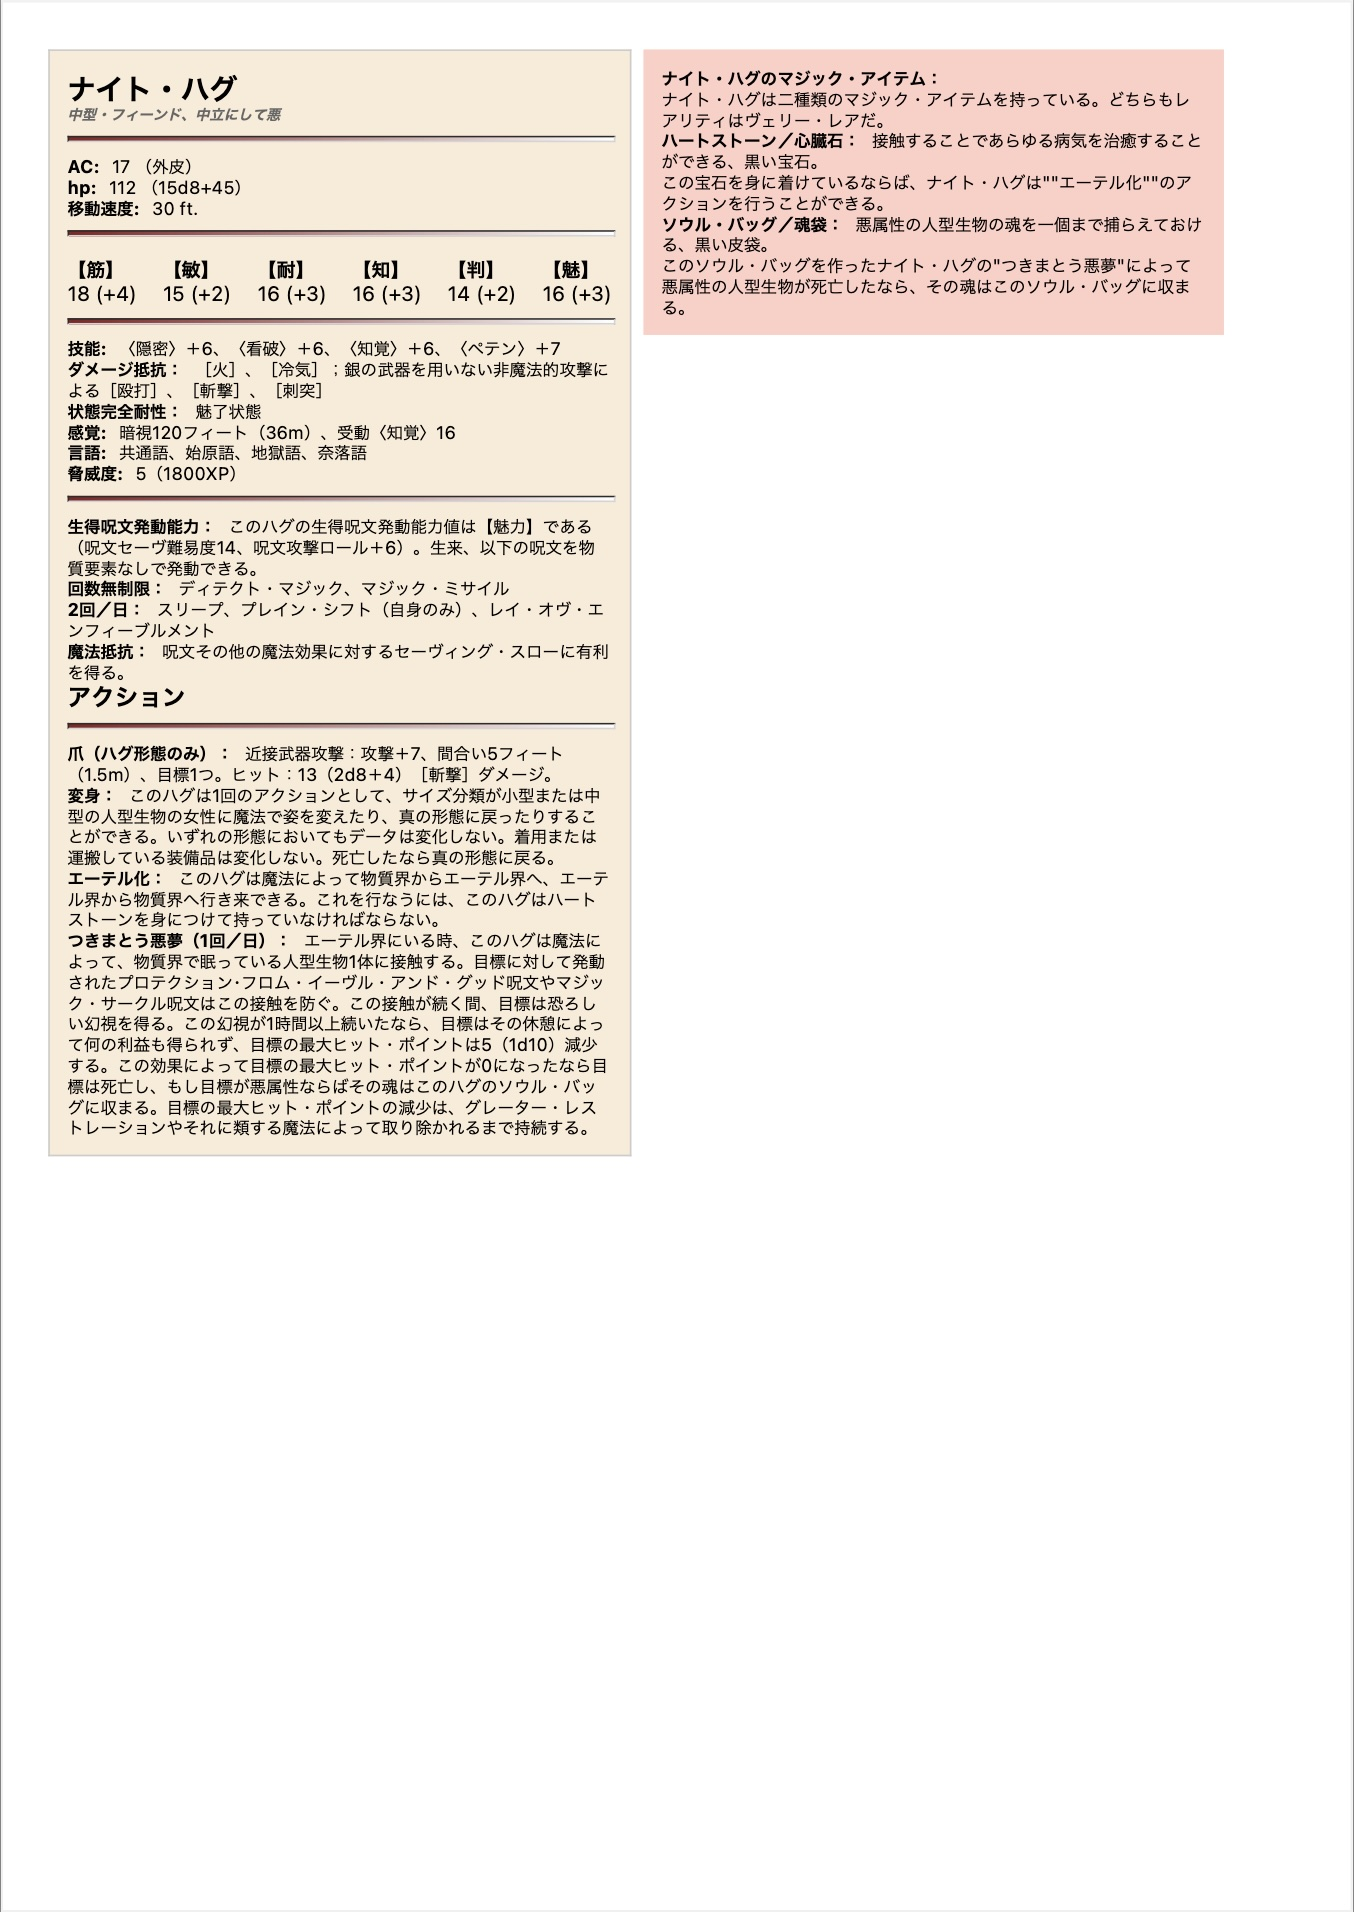
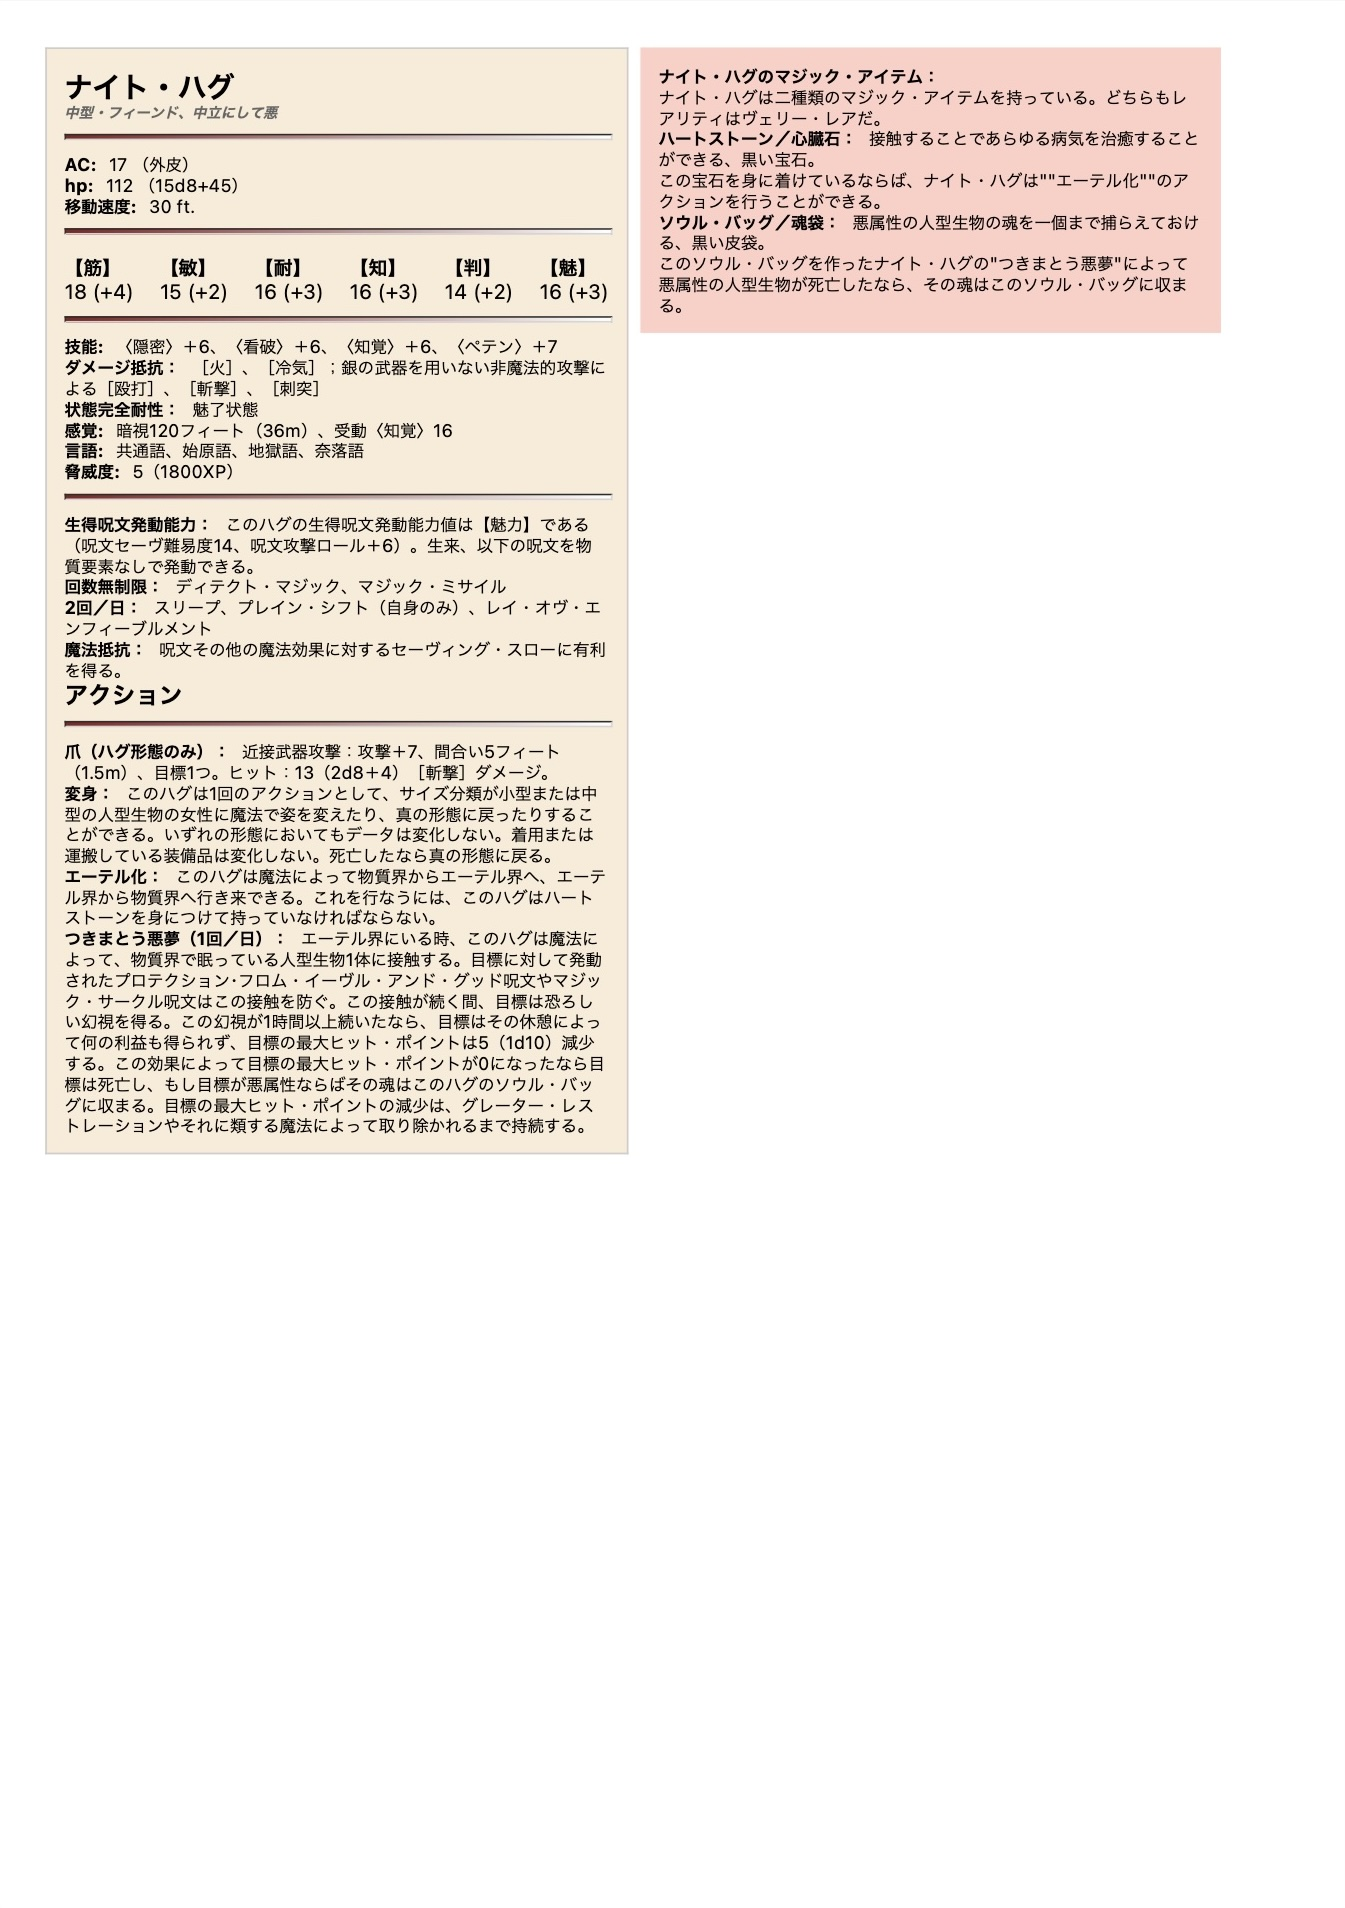
MarkdownPDF仕様変更による修正

Changed region(s): [[0.0312, 0.0309, 0.9056, 0.6184], [0.9993, 0.0, 1.0, 1.0]]

diff --git a/DarkBeast/闇の魔獣.md b/DarkBeast/闇の魔獣.md
@@ -1,5 +1,5 @@
-<div width="100%" height="100%" style="background-color: white;">
-    <div style="text-align: center;"><img src="./images/闇の魔獣_表紙.jpg" width="100%" height="100%"></div>
+<div style="background-color: white;">
+    <div style="text-align: center;"><img src="./images/闇の魔獣_表紙.jpg"></div>
 </div>
 <div style="page-break-before:always"></div>
 
@@ -24,7 +24,7 @@
 
 以下の表は、各セクションの推定プレイ時間と内容の概要を示しています。
 
-| **セクション**               | **推定プレイ時間** | **概要** |
+| **セクション**               | **時間** | **概要** |
 |-----------------------------|------------------|----------------|
 | **導入**                     | 20分             | 村の異変の説明 |
 | **ノクスヴィルの村**        | 40分         | 村の探索、証言の収集 |
@@ -73,7 +73,7 @@
 
 ノクスヴィルには、小さな村ながらも生活を支えるためのいくつかの重要な施設があります。しかし、最近の異変によって、それらの施設の多くが普段と違う雰囲気を漂わせています。以下に、村の主要な施設と住人を紹介します。
 
-<div style="text-align: center;"><img src="./Maps/DM用_ノクスヴィルの村.jpg" width="80%"></div>
+<div style="text-align: center;"><img src="./Maps/DM用_ノクスヴィルの村.jpg"></div>
 <div style="text-align: center;">ノクスヴィルの村</div>
 
 <div style="page-break-before:always"></div>
@@ -162,7 +162,7 @@
 村外れの影の道から、かつてイレナが追放されたヴェイルダークの森へと入ることができる。  
 森の中を探索すると、3体の **シャドウ・ウルフ** および 4体の **ウルフ** と遭遇する。
 
-<div style="text-align: center;"><img src="./Maps/遭遇用_ヴェイルダークの森.jpg" width="80%"></div>
+<div style="text-align: center;"><img src="./Maps/遭遇用_ヴェイルダークの森.jpg"></div>
 <div style="text-align: center;">ヴェイルダークの森　遭遇用マップ</div>  
 <div style="text-align: center; font-size: 12px;">※木の幹部分は侵入不可、葉の部分は軽度の隠蔽状態とする</div>
 <br>
@@ -186,11 +186,11 @@
 実際には、壁は深いひび割れに覆われ、木の骨組みはむき出しになっている。壁は灰色の腐食した板であり、瓦の隙間には黒ずんだ苔が絡みついている。庭にいる犬の正体はイレナの手下のヘルハウンドである。  
 難易度18の【知力】<魔法学>判定に成功するか、ディテクト・マジックの呪文を使用すれば、この屋敷に魔法がかかっていることに気づく。
 
-<div style="text-align: center;"><img src="./Maps/DM用_ナイトハグの棲家.jpg" width="70%"></div>
+<div style="text-align: center;"><img src="./Maps/DM用_ナイトハグの棲家.jpg"></div>
 <div style="text-align: center;">ナイトハグの棲家　遭遇用マップ</div>
 <br>
 
-<div style="page-break-before:always"></div>
+<!-- <div style="page-break-before:always"></div> -->
 
 #### H1. 庭
 家の前には花に囲まれた庭があり、そこには大人しそうな犬が昼寝をしている。この犬の正体はナイトハグの手下のヘルハウンドである。さらに庭のあちこちにインプが潜んでいる。
@@ -287,7 +287,7 @@
 
 <div style="page-break-before:always"></div>
 
-<div style="text-align: center;"><img src="./Maps/遭遇用_闇の洞窟.jpg" width="70%"></div>
+<div style="text-align: center;"><img src="./Maps/遭遇用_闇の洞窟.jpg"></div>
 <div style="text-align: center;">闇の洞窟　遭遇用マップ</div>
 
 <div style="page-break-before:always"></div>
@@ -312,13 +312,13 @@
 <div style="page-break-before:always"></div>
 
 ## **データブロック**
-<img src=./images/データブロック1.jpg width="100%">
+<img src=./images/データブロック1.jpg>
 <div style="page-break-before:always"></div>
-<img src=./images/データブロック2.jpg width="100%">
+<img src=./images/データブロック2.jpg>
 <div style="page-break-before:always"></div>
-<img src=./images/データブロック3.jpg width="100%">
+<img src=./images/データブロック3.jpg>
 <div style="page-break-before:always"></div>
-<img src=./images/データブロック4.jpg width="100%">
+<img src=./images/データブロック4.jpg>
 <div style="page-break-before:always"></div>
 
 <!-- 以下はモンスターマニュアルを参照。
